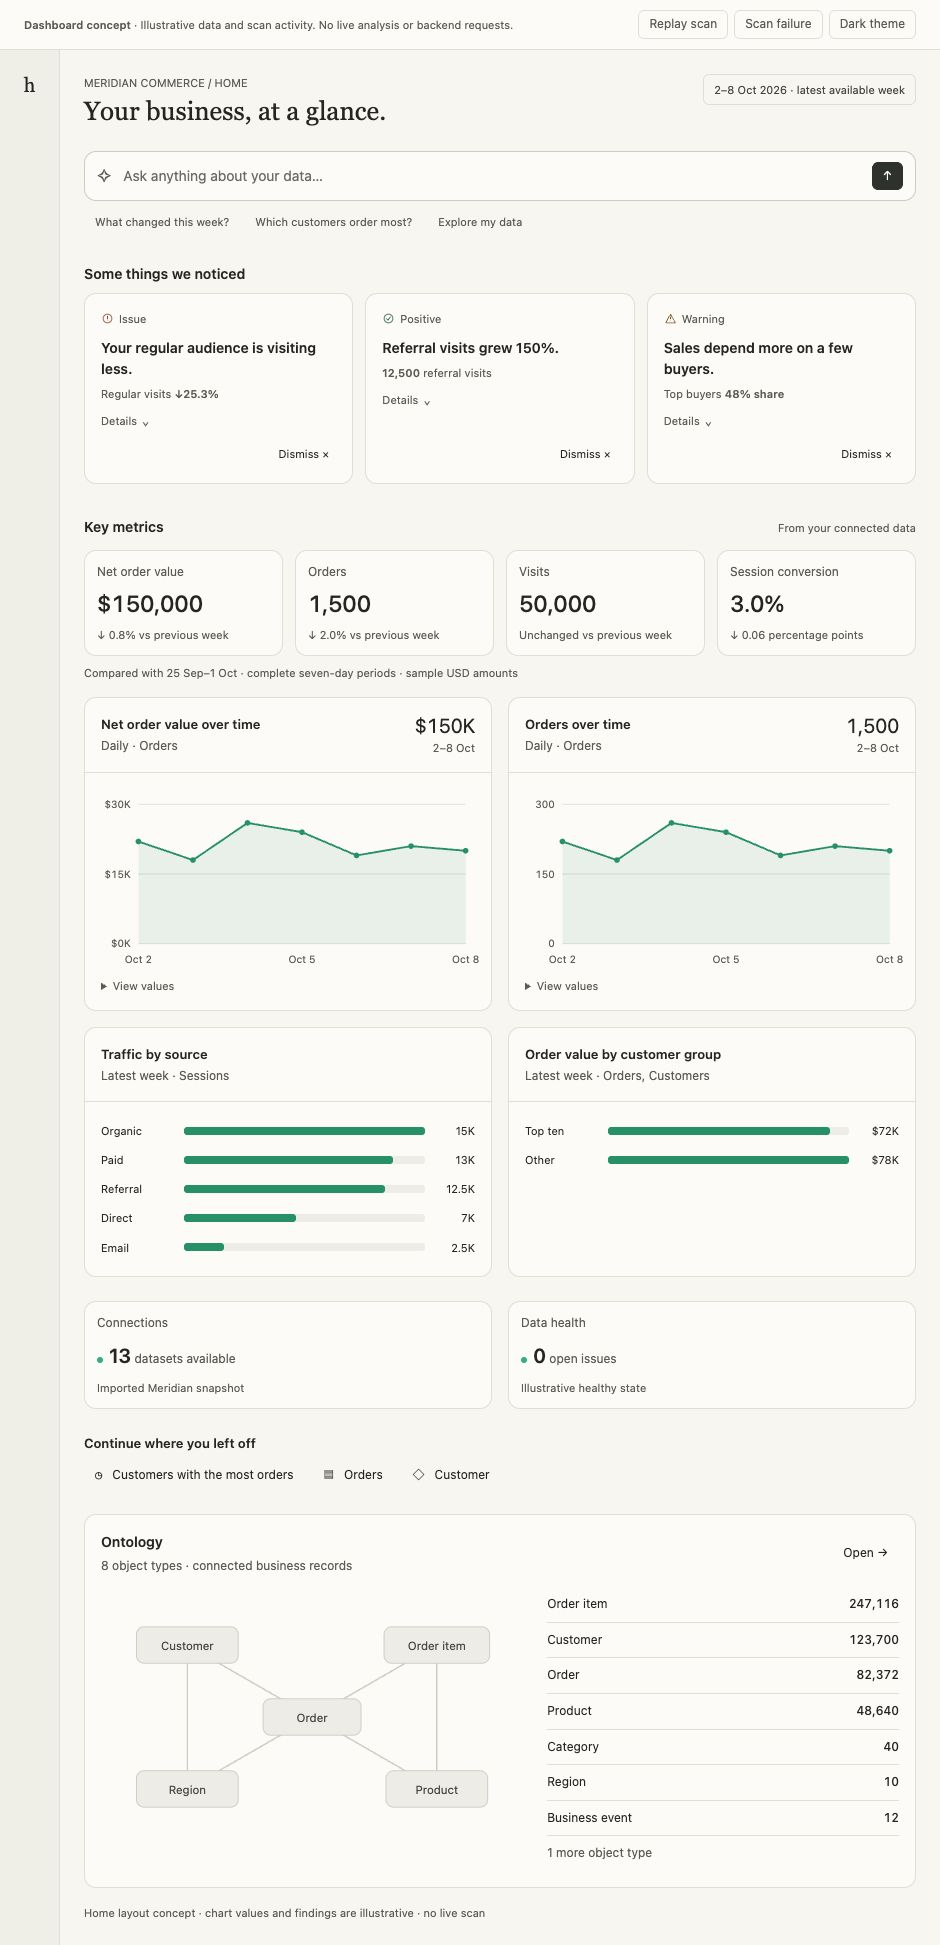
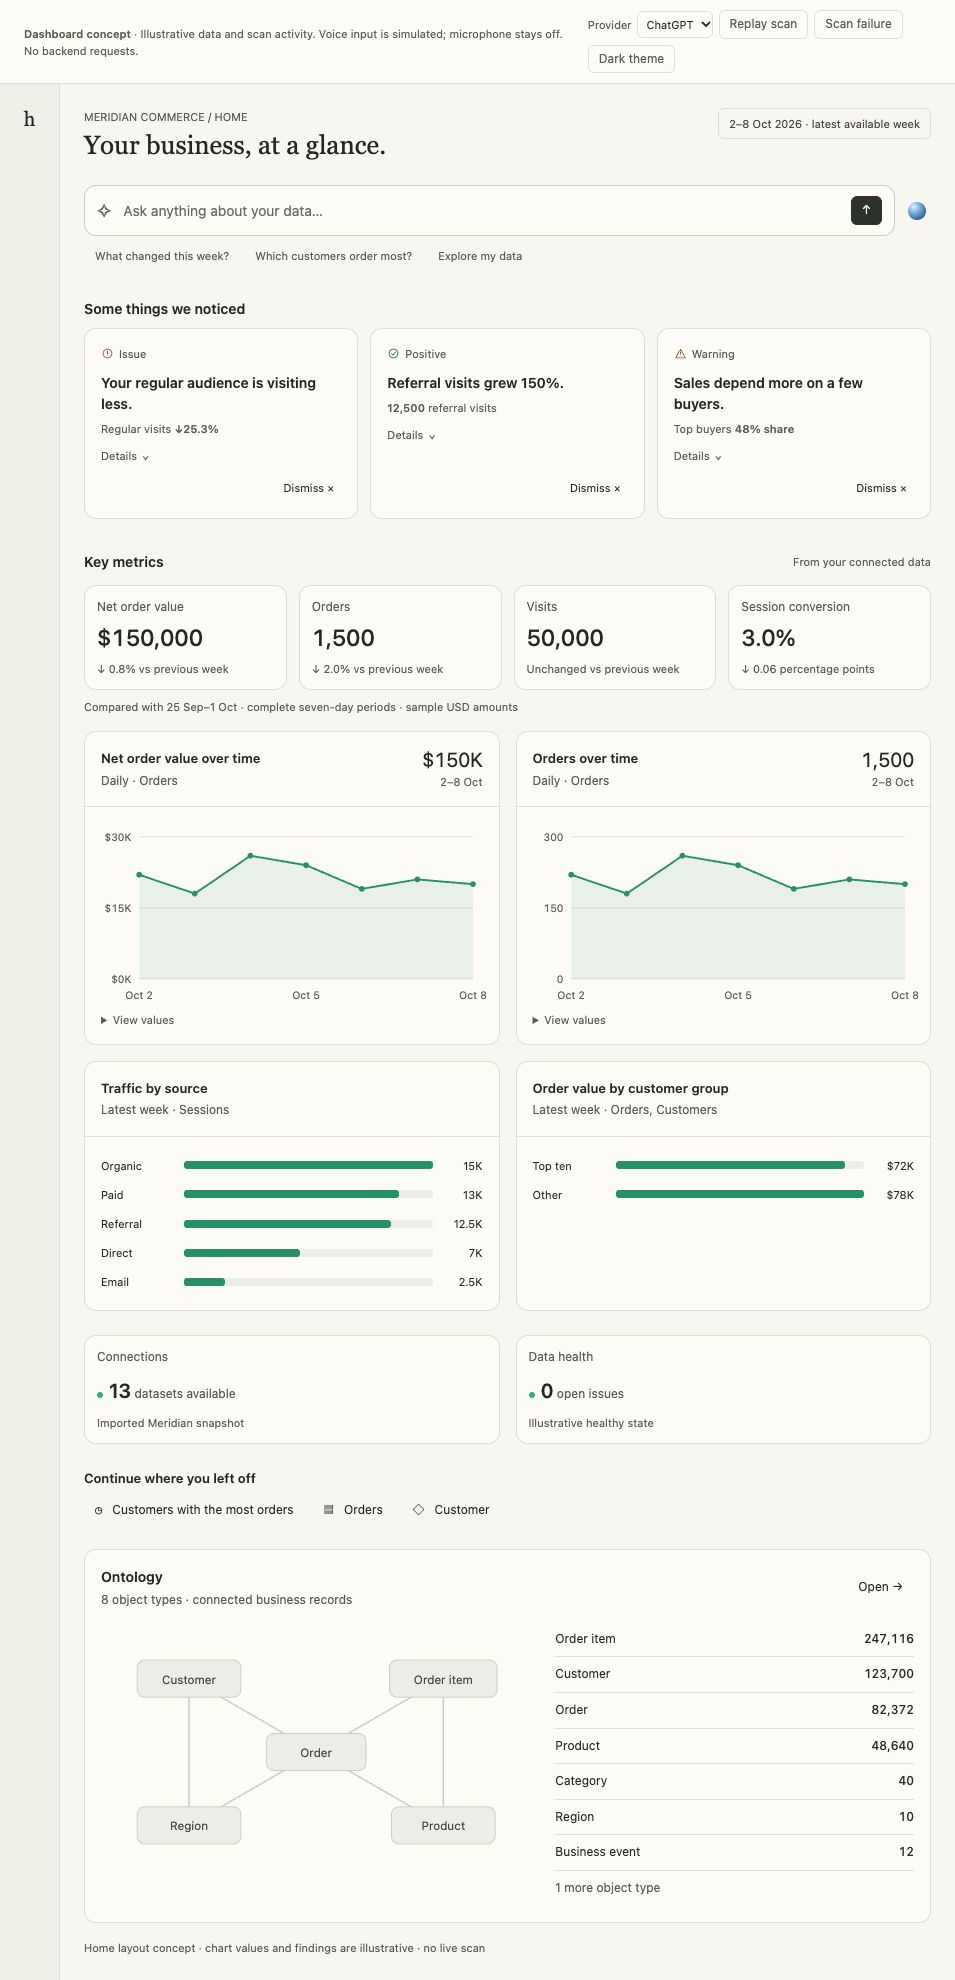
Add secondary ChatGPT voice-input design beside the composer

diff --git a/docs/design/business-dashboard/index.html b/docs/design/business-dashboard/index.html
@@ -161,10 +161,22 @@
 .finding details[open]>summary::after{transform:rotate(180deg)}
 .finding summary:hover{color:var(--hf-text)}
 .finding-actions{justify-content:flex-end}
+
+/* Secondary voice input uses the existing question field. */
+.provider-demo{display:flex;align-items:center;gap:5px;font-size:11px;color:var(--hf-muted)}
+.provider-demo select{font:inherit;color:var(--hf-text);background:var(--hf-raised);border:1px solid var(--hf-border);border-radius:6px;padding:5px}
+.ask-row{display:flex;align-items:center;gap:8px}.ask-row>.ask-field{flex:1;min-width:0}
+.voice-trigger{display:grid;place-items:center;width:28px;height:28px;flex:none;padding:4px;border:0;border-radius:50%;background:transparent;cursor:pointer}
+.voice-trigger:hover{background:var(--hf-info-soft)}
+.orb-mark{display:inline-block;width:18px;height:18px;border-radius:50%;background:radial-gradient(circle at 32% 26%,#e5f4ff 0%,#92c5ed 28%,var(--hf-info) 67%,#365e98 100%);box-shadow:inset -2px -2px 4px #315b8229}
+.voice-trigger[aria-pressed="true"] .orb-mark{animation:voice-breathe 1.5s ease-in-out infinite;box-shadow:0 0 0 4px var(--hf-info-soft)}
+@keyframes voice-breathe{50%{transform:scale(1.1)}}
+@media(prefers-reduced-motion:reduce){.voice-trigger .orb-mark{animation:none!important}}
+@media(max-width:700px){.ask-row{gap:4px}.ask-field{gap:7px}.provider-demo{white-space:nowrap}}
 </style></head><body>
-<div class="demo"><span><strong>Dashboard concept</strong> · Illustrative data and scan activity. No live analysis or backend requests.</span><div class="demo-controls"><button class="btn" id="replay">Replay scan</button><button class="btn" id="failed">Scan failure</button><button class="btn" id="theme" aria-label="Switch to dark theme">Dark theme</button></div></div>
+<div class="demo"><span><strong>Dashboard concept</strong> · Illustrative data and scan activity. Voice input is simulated; microphone stays off. No backend requests.</span><div class="demo-controls"><label class="provider-demo">Provider <select id="preview-provider" aria-label="Preview AI provider"><option value="chatgpt">ChatGPT</option><option value="claude">Claude</option><option value="local">Local</option></select></label><button class="btn" id="replay">Replay scan</button><button class="btn" id="failed">Scan failure</button><button class="btn" id="theme" aria-label="Switch to dark theme">Dark theme</button></div></div>
 <div class="shell"><aside class="sidebar" aria-label="Workspace navigation"><div class="brand">h<span>elix foundry</span></div><div class="workspace">Meridian Commerce<span>Business workspace</span></div><nav class="nav"><a href="#home" aria-current="page">⌂ &nbsp; Home</a><a href="#findings">✧ &nbsp; Analyst</a><small>WORKSPACE</small><a href="#business">◇ &nbsp; Ontology</a><a href="#coverage">▤ &nbsp; Data</a><a href="#coverage">↗ &nbsp; Connections</a></nav><div class="sidebar-foot"><span class="status-dot"></span>13 datasets connected<br>Latest snapshot: 8 Oct 2026</div></aside>
-<main id="home"><header class="page-head"><div><div class="eyebrow">MERIDIAN COMMERCE / HOME</div><h1>Your business, at a glance.</h1></div><span class="period">2–8 Oct 2026 · latest available week</span></header><form class="home-ask" id="home-ask"><div class="ask-field"><span aria-hidden="true">✧</span><input id="ask-input" aria-label="Ask anything about your data" placeholder="Ask anything about your data…" minlength="5" required><button class="btn primary" type="submit" aria-label="Ask Analyst">↑</button></div><div class="ask-suggestions"><button class="btn ghost suggestion" type="button">What changed this week?</button><button class="btn ghost suggestion" type="button">Which customers order most?</button><button class="btn ghost suggestion" type="button">Explore my data</button></div><p id="ask-result" class="ask-result" hidden role="status"></p></form>
+<main id="home"><header class="page-head"><div><div class="eyebrow">MERIDIAN COMMERCE / HOME</div><h1>Your business, at a glance.</h1></div><span class="period">2–8 Oct 2026 · latest available week</span></header><form class="home-ask" id="home-ask"><div class="ask-row"><div class="ask-field"><span aria-hidden="true">✧</span><input id="ask-input" aria-label="Ask anything about your data" placeholder="Ask anything about your data…" minlength="5" required><button class="btn primary" type="submit" aria-label="Ask Analyst">↑</button></div><button class="voice-trigger" type="button" id="voice-input" aria-label="Dictate question with ChatGPT" aria-pressed="false" title="Voice input · ChatGPT"><span class="orb-mark" aria-hidden="true"></span></button></div><div class="ask-suggestions"><button class="btn ghost suggestion" type="button">What changed this week?</button><button class="btn ghost suggestion" type="button">Which customers order most?</button><button class="btn ghost suggestion" type="button">Explore my data</button></div><p id="ask-result" class="ask-result" hidden role="status"></p></form>
 <section aria-labelledby="attention-heading" id="findings"><div class="section-head watch-title"><h2 id="attention-heading">Some things we noticed</h2><span class="tag" id="finding-count" hidden>1 of 3</span></div>
 <div class="scan" id="scan" aria-busy="false"><div class="scan-copy"><p id="scan-line"><strong>Scanned:</strong> Traffic, customers and orders.</p><p id="scan-line-two" hidden><strong>Business lens:</strong> Acquisition quality and dependence on established customers.</p></div><div class="scan-info"><span id="scan-status" hidden>Latest snapshot</span><button class="btn ghost" id="show-scan" aria-expanded="false" aria-controls="scan-list">Show steps ⌄</button></div></div>
 <div class="scan-list" id="scan-list" hidden><ol id="scan-steps"><li><strong>Understand the business:</strong> Connect visits, customers and purchasing.</li><li><strong>Establish the fundamentals:</strong> Compare complete weeks and fix the customer cohort.</li><li><strong>Look for meaningful shifts:</strong> Review mix and concentration beneath totals.</li></ol><p class="muted">This prototype illustrates the flow; it does not execute a scan.</p></div>
@@ -178,6 +190,8 @@
 <section class="home-health" aria-label="Workspace health"><article class="metric"><div class="label">Connections</div><div class="health-value"><span class="status-dot"></span><strong>13</strong> <span>datasets available</span></div><div class="delta">Imported Meridian snapshot</div></article><article class="metric"><div class="label">Data health</div><div class="health-value"><span class="status-dot"></span><strong>0</strong> <span>open issues</span></div><div class="delta">Illustrative healthy state</div></article></section>
 <section class="recents" aria-label="Recent activity"><h2>Continue where you left off</h2><div class="recent-items"><button class="btn ghost local-action">◷ &nbsp; Customers with the most orders</button><button class="btn ghost local-action">▤ &nbsp; Orders</button><button class="btn ghost local-action">◇ &nbsp; Customer</button></div></section>
 <section class="ontology-panel" id="business"><header class="section-head"><div><h2>Ontology</h2><p class="muted">8 object types · connected business records</p></div><button class="btn ghost local-action">Open →</button></header><div class="ontology-content"><svg viewBox="0 0 440 260" role="img" aria-label="Sample ontology connecting customers, orders, order items, products, categories and regions"><g class="ontology-edges"><path d="M220 130 90 55M220 130 350 55M220 130 90 205M220 130 350 205M90 205 90 55M350 55 350 205"/></g><g class="ontology-nodes"><g><rect x="169" y="111" width="102" height="38" rx="8"/><text x="220" y="135">Order</text></g><g><rect x="37" y="36" width="106" height="38" rx="8"/><text x="90" y="60">Customer</text></g><g><rect x="295" y="36" width="110" height="38" rx="8"/><text x="350" y="60">Order item</text></g><g><rect x="37" y="186" width="106" height="38" rx="8"/><text x="90" y="210">Region</text></g><g><rect x="297" y="186" width="106" height="38" rx="8"/><text x="350" y="210">Product</text></g></g></svg><ul class="type-list"><li><span>Order item</span><strong>247,116</strong></li><li><span>Customer</span><strong>123,700</strong></li><li><span>Order</span><strong>82,372</strong></li><li><span>Product</span><strong>48,640</strong></li><li><span>Category</span><strong>40</strong></li><li><span>Region</span><strong>10</strong></li><li><span>Business event</span><strong>12</strong></li><li class="muted">1 more object type</li></ul></div></section><p class="page-foot" id="coverage">Home layout concept · chart values and findings are illustrative · no live scan</p>
+
+
 <div class="sr" id="announce" aria-live="polite"></div></main></div>
 <script>
 const $=id=>document.getElementById(id);let scanTimers=[],scanOpen=false,slide=0;const stages=[['Understand the business','Connect visits, customers and purchasing.'],['Establish the fundamentals','Compare complete weeks and fix the customer cohort.'],['Look for meaningful shifts','Review mix and concentration beneath totals.']];
@@ -201,4 +215,20 @@ function trend(id,values,currency=false){const w=400,h=184,left=40,right=10,top=
 function breakdown(id,rows){const max=Math.max(...rows.map(r=>r[1]));$(id).innerHTML='<div class="chart-breakdown">'+rows.map(r=>'<div class="bar-pair"><span>'+r[0]+'</span><div class="track" aria-hidden="true"><div class="fill" style="--share:'+r[1]/max*100+'%"></div></div><span class="num">'+r[2]+'</span></div>').join('')+'</div>'}
 trend('value-chart',[22000,18000,26000,24000,19000,21000,20000],true);trend('orders-chart',[220,180,260,240,190,210,200]);breakdown('source-chart',[['Organic',15000,'15K'],['Paid',13000,'13K'],['Referral',12500,'12.5K'],['Direct',7000,'7K'],['Email',2500,'2.5K']]);breakdown('buyer-chart',[['Top ten',72000,'$72K'],['Other',78000,'$78K']]);
 $('home-ask').onsubmit=e=>{e.preventDefault();$('ask-result').hidden=false;$('ask-result').textContent='Prepared for Analyst: “'+$('ask-input').value+'” · preview only';};document.querySelectorAll('.suggestion').forEach(b=>b.onclick=()=>{$('ask-input').value=b.textContent;$('ask-input').focus()});document.querySelectorAll('.local-action').forEach(b=>b.onclick=()=>{$('notice').hidden=false;$('notice').textContent='This would open '+b.textContent.trim()+' in the workspace. Preview only.'});
+
+let voiceTimers=[],voiceSession=0,dictating=false;
+function stopVoice(){voiceTimers.forEach(clearTimeout);voiceTimers=[];voiceSession++;dictating=false;$('voice-input').setAttribute('aria-pressed','false');$('voice-input').setAttribute('aria-label','Dictate question with ChatGPT');}
+$('voice-input').onclick=()=>{
+ if($('preview-provider').value!=='chatgpt')return;
+ if(dictating){stopVoice();$('ask-input').focus();return;}
+ stopVoice();dictating=true;const session=voiceSession,initial=$('ask-input').value.trim(),words='Why are our regular customers visiting less?'.split(' ');
+ $('voice-input').setAttribute('aria-pressed','true');$('voice-input').setAttribute('aria-label','Stop dictation');$('announce').textContent='Voice input preview started. Simulated words will fill the existing question box.';
+ words.forEach((word,i)=>voiceTimers.push(setTimeout(()=>{if(session!==voiceSession)return;$('ask-input').value=(initial?initial+' ':'')+words.slice(0,i+1).join(' ');},200+i*230)));
+ voiceTimers.push(setTimeout(()=>{if(session!==voiceSession)return;stopVoice();$('ask-input').focus();$('announce').textContent='Question ready. Edit it or send it using the usual chat button.';},400+words.length*230));
+};
+$('ask-input').addEventListener('input',()=>{if(dictating)stopVoice()});
+$('home-ask').addEventListener('submit',stopVoice);
+$('preview-provider').onchange=()=>{stopVoice();$('voice-input').hidden=$('preview-provider').value!=='chatgpt'};
+$('voice-input').addEventListener('keydown',e=>{if(e.key==='Escape'){stopVoice();$('ask-input').focus()}});
+document.querySelectorAll('.suggestion').forEach(b=>b.addEventListener('click',stopVoice));
 </script></body></html>

diff --git a/docs/design/business-dashboard/README.md b/docs/design/business-dashboard/README.md
@@ -11,3 +11,5 @@ Project paper/olive theme, semantic tokens and bold text emphasis are retained. 
 Validated JavaScript syntax, complete Home sections, three visible desktop cards, one visible phone card at 390px, no document overflow, carousel navigation, dismiss/undo, evidence disclosure, Ask preview submission, failure/retry and theme controls. This is a design proposal, not a deployed implementation or detection engine. No main merge.
 
 Finding secondary text is limited to 3–4 words at 11px. Details is a subtle muted text disclosure with a small chevron and no separator line. Updated desktop and 390px mobile previews verify the compact layout; mobile capture is a 390px iframe viewport.
+
+ChatGPT-only voice input preview: one secondary orb follows the chat input, outside its border. It simulates dictation into the existing question field; users review/edit and submit through the usual Ask action. No floating live panel, no per-finding Talk actions, no microphone capture, no actual ChatGPT connection. Demo provider selector hides the orb for Claude and Local. Verified dictation completion, standard Ask preview submission, provider availability and 390px mobile layout without overflow.
